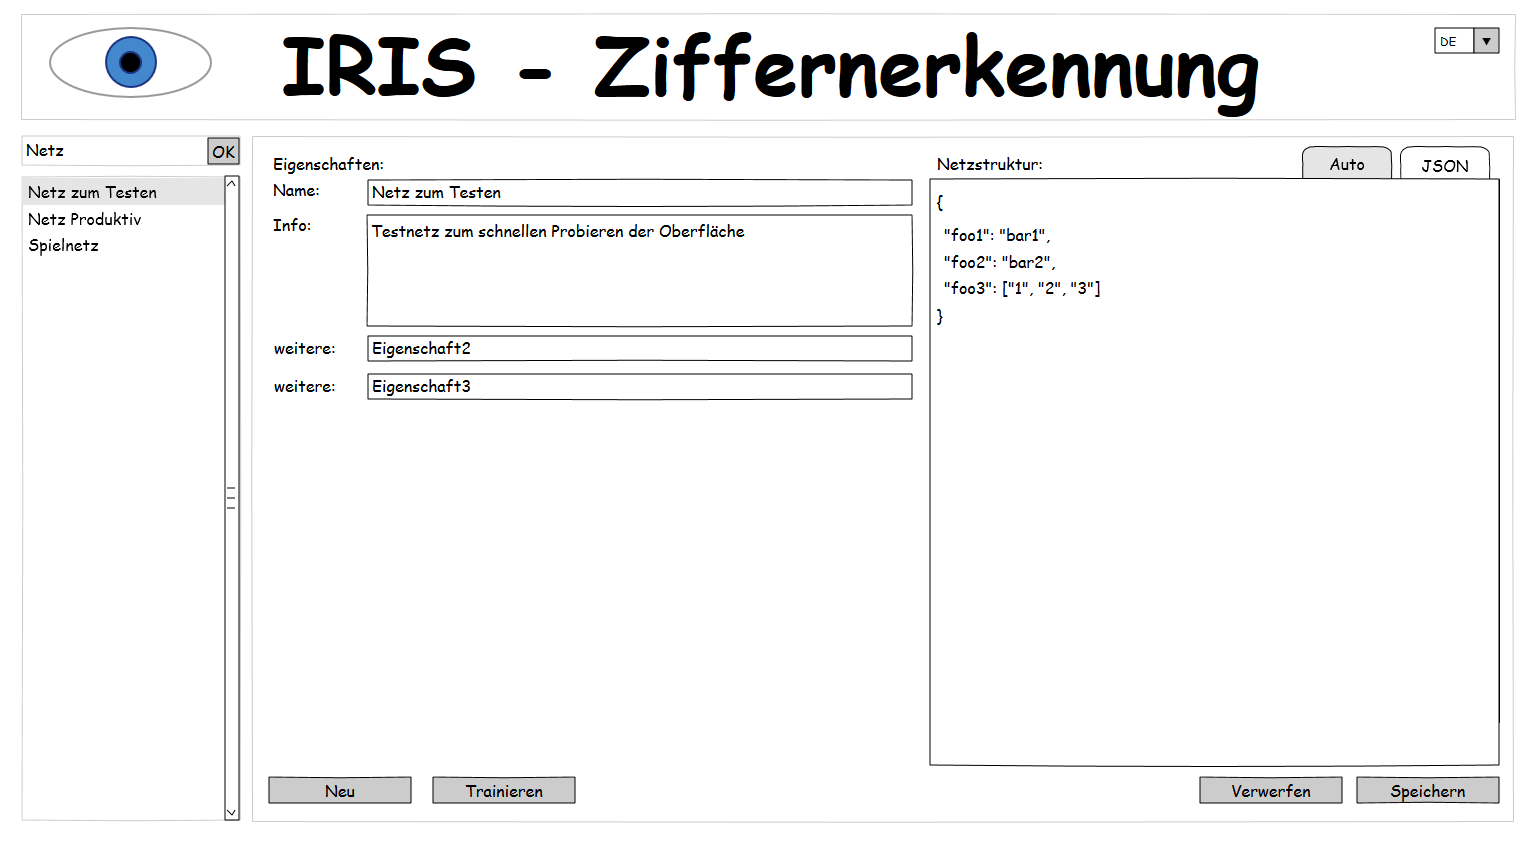
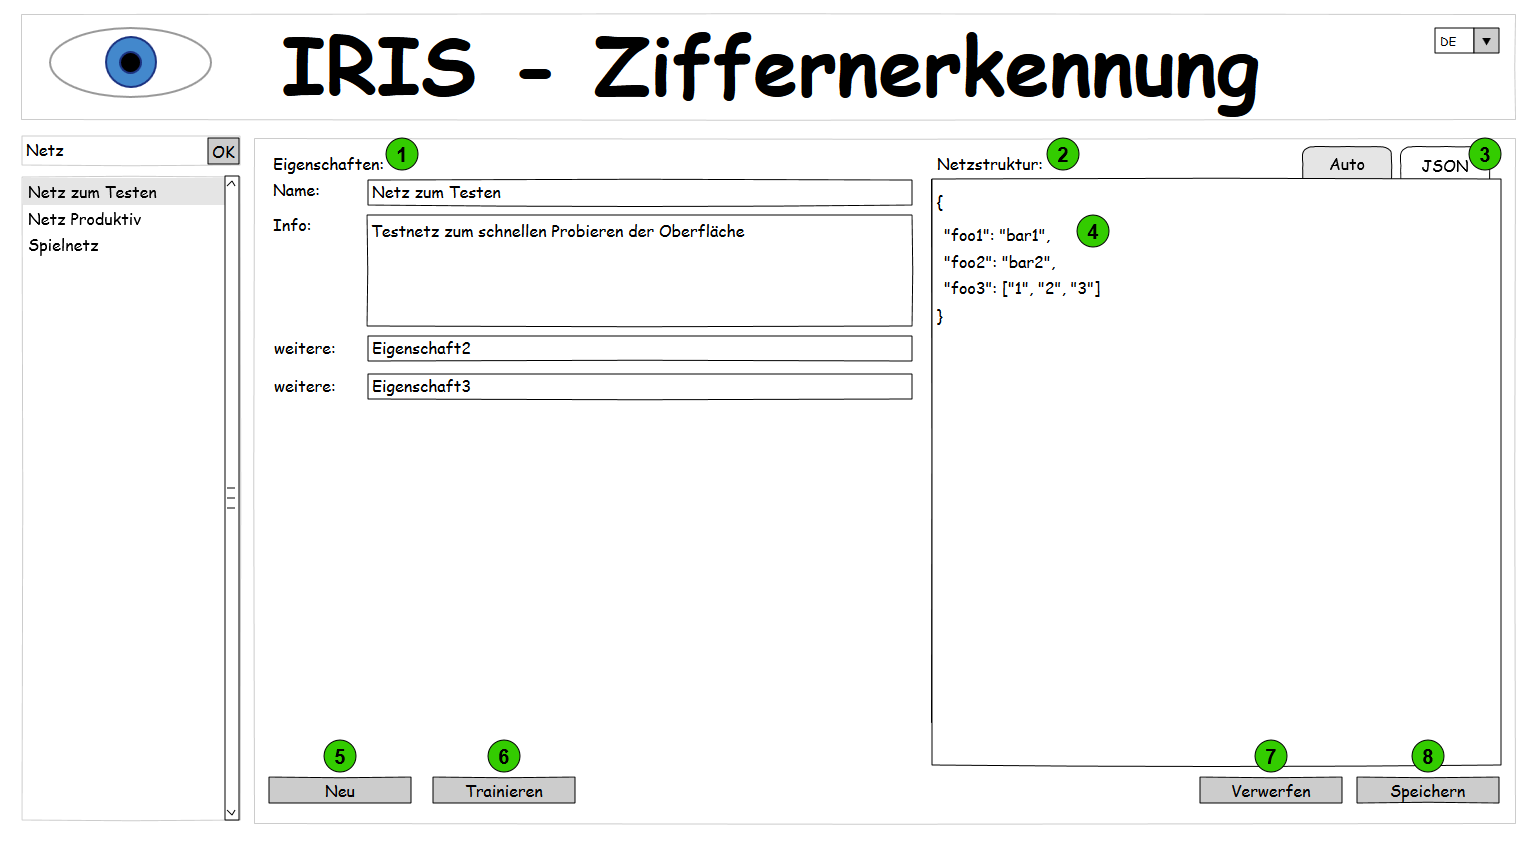
UI-Pflichtenheft

diff --git a/files/Pflichtenheft/Benutzeroberflaeche/oberflaeche.tex b/files/Pflichtenheft/Benutzeroberflaeche/oberflaeche.tex
@@ -1,28 +1,82 @@
+\newpage
 \section{Benutzungsoberfläche}
 \subsection{Allgemeiner Aufbau}
- In den Abbildungen \ref{ui-max} und \ref{ui-min} wird der  Entwurf des Hauptnutzerinterface gezeigt. Generell betrachtet ist die Oberfläche in zwei Bereiche geteilt. Im oberen Abschnitt befindet sich der Kopfbereich. Dieser stimmt in allen für den Endnutzer bestimmten Anwendungsbereichen überein. Darunter liegt eine für die einz
- Der Bereich mit den zusätzlichen Informationen(8) kann ausgeblendet werden. Dadurch steht für andere Bereiche der Anwendung mehr Platz zur Verfügung. Insbesondere bei kleineren Anzeigegeräten wie Tablets oder anderen mobilen Geräten kommt dieser Fakt zum Tragen. 
+In den Abbildungen \ref{ui-max} und \ref{ui-min} wird der  Entwurf des Hauptnutzerinterface gezeigt. Generell betrachtet ist die Oberfläche in zwei Bereiche geteilt. Im oberen Abschnitt befindet sich der Kopfbereich. Dieser stimmt in allen für den Endnutzer bestimmten Anwendungsbereichen überein. Darunter liegt eine Sektion, die den einzelnen Unterbereichen der Seite zur Verfügung steht.
+
+\subsection{Ziffernerkennung}
+Dieser Teil der Anwendung ist die Hauptansicht und ist vorrangig für den Endanwender gedacht. Sie dient hauptsächlich der Eingabe einer Ziffer und deren Erkennung. Außerdem wird eine Suchfunktion nach vorhandenen Netzen, ein Infobereich mit Eigenschaften des Netzes und Konsole zur Ausgabe von Berechnungsinformationen zur Verfügung gestellt. Der rechte  Bereich mit den zusätzlichen Informationen kann ausgeblendet werden. Dadurch steht für andere Bereiche der Anwendung mehr Platz zur Verfügung. Insbesondere bei kleineren Anzeigegeräten wie Tablets oder anderen mobilen Geräten kommt dieser Fakt zum Tragen. In Abbildung \ref{ui-max} ist die maximierte und in der darauffolgenden(\ref{ui-min}) ist die minimierte Variante zu sehen.
  
- 
- 
-\subsection{Bedienelemente}
+ \paragraph{Elemente der Ziffernerkennungs-Oberfläche}
  \begin{enumerate}
- 	\item 
+ 	\item Anwendungskopf
+ 	\item Sprachauswahl
+ 	\item Suchfeld mit Bestätigungsschaltfläche
+ 	\item Liste der Suchergebnisse
+ 	\item Feld zum Zeichnen einer Ziffer
+ 	\item Feld zur Anzeige des Ergebnisses
+ 	\item Konsole mit Berechnungsinformationen
+ 	\item Bereich zur Darstellung zusätzlicher Informationen zum geladenen Netz
  \end{enumerate}
  
-\begin{figure}[ht]
+\begin{figure}[H]
  
  	\centering
- 	\includegraphics[height=0.8\textwidth, angle=90]{Abbildungen/UI-Mocks/Main-Ui.png}
+ 	\includegraphics[height=0.75\textwidth, angle=90]{Abbildungen/UI-Mocks/Main-Ui.png}
  	\caption{Nutzeroberfläche mit eingeblendeten Metainformationen}
  	\label{ui-max}
 \end{figure}
 
-\begin{figure}[ht]
+\begin{figure}[H]
 	\centering
-	\includegraphics[height=0.8\textwidth, angle=90]{Abbildungen/UI-Mocks/Main-Ui-Minimized.png}
+	\includegraphics[height=0.75\textwidth, angle=90]{Abbildungen/UI-Mocks/Main-Ui-Minimized.png}
 	\caption{Nutzeroberfläche mit ausgeblendeten Metainformationen}
 	\label{ui-min}
 \end{figure}
+
+\subsection{Datenzugriff auf neuronale Netze}
+Dieser Abschnitt ist für Administratoren und Entwickler entworfen. Über sie können neuronale Netze erstellt, verändert und wieder gespeichert werden. Die Grundaufteilung ist analog zur Ziffernerkennungsoberfläche und stellt auch eine Sprachauswahl und Suche bereit. Für die Zukunft, ist die Möglichkeit vorgesehen, Netze über Schaltflächen und Regler für die Eigenschaften dieser zu erstellen. In der ersten Realisierung wird aber nur die Eingabe von JSON zur Bestimmung der Struktur des Netzes implementiert. Separat zu erwähnen ist die Möglichkeit zum schnellen Wechsel von der  Datenbearbeitungs- zur Trainingsseite. Abbildung \ref{ui-crud} zeigt den Entwurf der Datenzugriffsseite.
+
+ \paragraph{Elemente der Datenzugriffs-Oberfläche} (zur Erkennungsansicht(\ref{ui-max}) abweichende)
+ \begin{enumerate}
+ 	\item Manipulation der zusätzlichen Netzinformationen
+ 	\item Sektion zur Netzstruktur
+ 	\item Auswahl der Eingabeart
+ 	\item Textfeld für die Eingabe über JSON
+ 	\item Neuanlegen eines Datensatzes
+ 	\item Wechsel zum Training des geladenen Netzes
+ 	\item Verwerfen der aktuellen Änderungen
+ 	\item Speichern der eingegeben Daten
+ \end{enumerate}
+
+\begin{figure}[H]
+	
+	\centering
+	\includegraphics[width=1\textwidth]{Abbildungen/UI-Mocks/CRUD-Ui.png}
+	\caption{Nutzeroberfläche zum Datenzugriff auf neuronale Netze}
+	\label{ui-crud}
+\end{figure}
+
+\subsection{Training eines neuronale Netzes}
+In diesem, für Entwickler und Administratoren gedachten Bereich, wird die Möglichkeit zum Trainings eines Netzes zur Verfügung gestellt. In Abbildung \ref{ui-train} wird der Aufbau dieses Anwendungsbereich dargestellt. Die grundlegende Struktur bleibt gleich und analog zur Datenmanipulationsseite wird ein schneller Wechsel zu dieser bereit gestellt. Hauptfunktion ist die Eingabe von Trainingsparametern und das Starten sowie Beenden eines Trainings. Je nach Erfolg kann das Resultat gespeichert oder verworfen werden.
+
+\paragraph{Elemente der Trainings-Oberfläche} (zur Erkennungsansicht(\ref{ui-max}) abweichende)
+\begin{enumerate}
+\item Eingabe der Trainingsparameter
+\item Ausgabe von Berechnungsinformationen und Lernerfolg
+\item Wechsel zur Bearbeitung des geladenen Netzes
+\item Starten des Trainings
+\item Stoppen des Trainings
+\item Verwerfen der Resultate
+\item Speichern der Resultate
+\end{enumerate}
+
+\begin{figure}[H]
+	
+	\centering
+	\includegraphics[width=1\textwidth]{Abbildungen/UI-Mocks/Train-Ui.png}
+	\caption{Nutzeroberfläche zum Training eines Netzes}
+	\label{ui-train}
+\end{figure}
+
 
 %Benutzungsoberfläche: grundlegende Anforderungen, Zugriffsrechte
